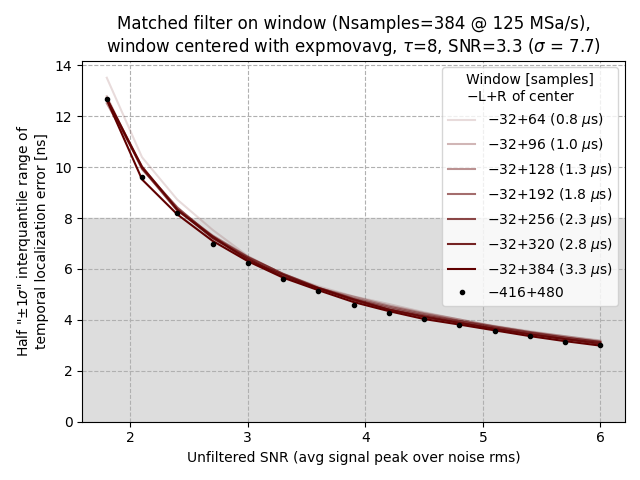
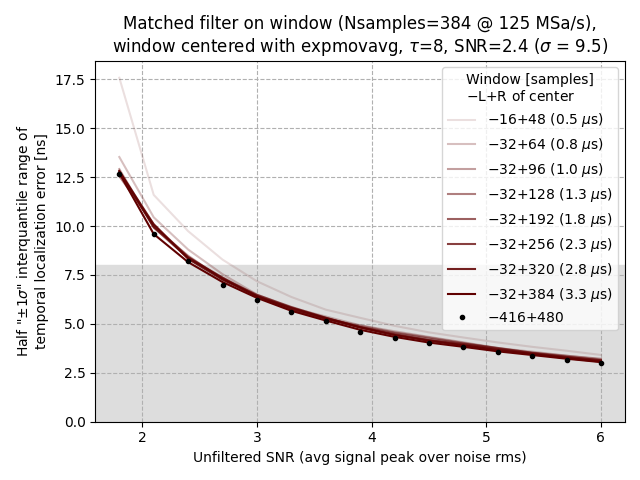
lowered snr for window centering

diff --git a/toycomparison.py b/toycomparison.py
@@ -5,8 +5,9 @@ import toy
 tau = np.array([4, 8, 16, 24, 32, 40, 48, 64, 96, 128, 192, 256, 384])
 snr = np.linspace(1.8, 6, 15)
 
-wlen = np.array(64 * np.array([2, 2.5, 3, 4, 5, 6, 7]), int) - 32
-wlmargin = np.full_like(wlen, 32)
+wlen = np.array(64 * np.array([1.5, 2, 2.5, 3, 4, 5, 6, 7]), int) - 32
+wlmargin = np.full_like(wlen, 64 - 32)
+wlmargin[0] = 16
 
 noise_proto0 = toy.DataCycleNoise()
 noise_proto0.load('merged_000886-adc_W201_Ch00.npz')
@@ -26,13 +27,13 @@ for name, noise in zip(noise_name, noise_obj):
     t.run(1000, pbar=10, seed=202012071818)
     
     # Make window center argument for Toy.run_window.
-    isnrlngs = np.searchsorted(snr, 3.1)
+    isnr = np.searchsorted(snr, 2.4)
     res = t.templocres() # shape == (nfilter, ntau, nsnr)
     ifilterisnritau = np.array([
-        (3, -1      , -1), # matched, high snr, high tau
-        (3, isnrlngs, 7), # matched, tau=64
-        (2, isnrlngs, np.argmin(res[2, :, isnrlngs])), # exp, best tau
-        (1, isnrlngs, np.argmin(res[1, :, isnrlngs])), # movavg, best tau
+        (3, -1, -1), # matched, high snr, high tau
+        (3, isnr, 7), # matched, tau=64
+        (2, isnr, np.argmin(res[2, :, isnr])), # exp, best tau
+        (1, isnr, np.argmin(res[1, :, isnr])), # movavg, best tau
     ])
     wcenter = t.window_center(*ifilterisnritau.T)
     
